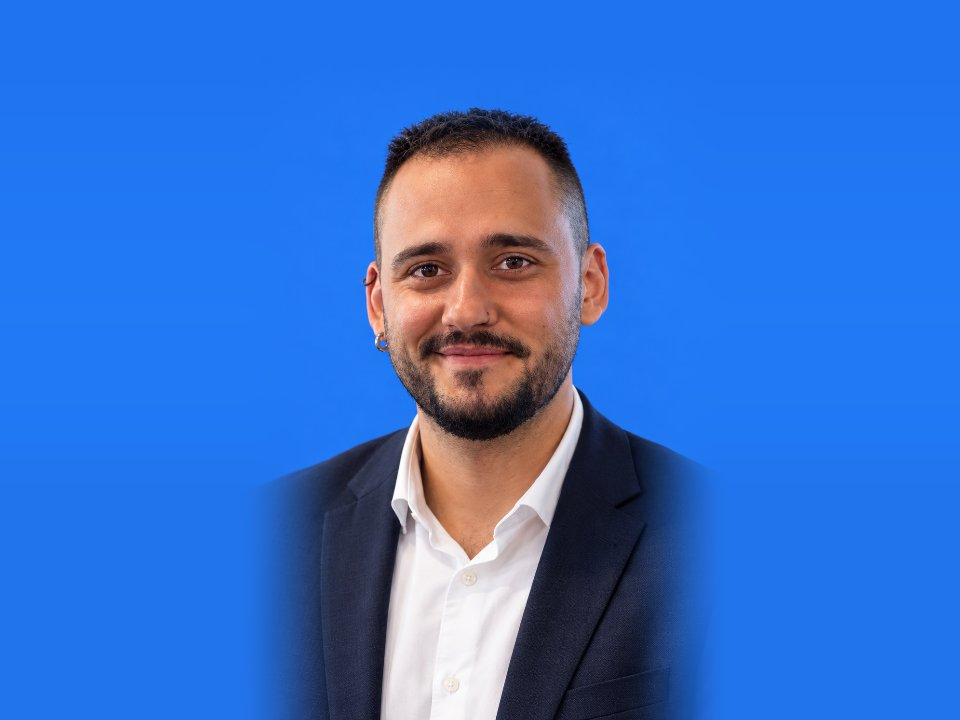
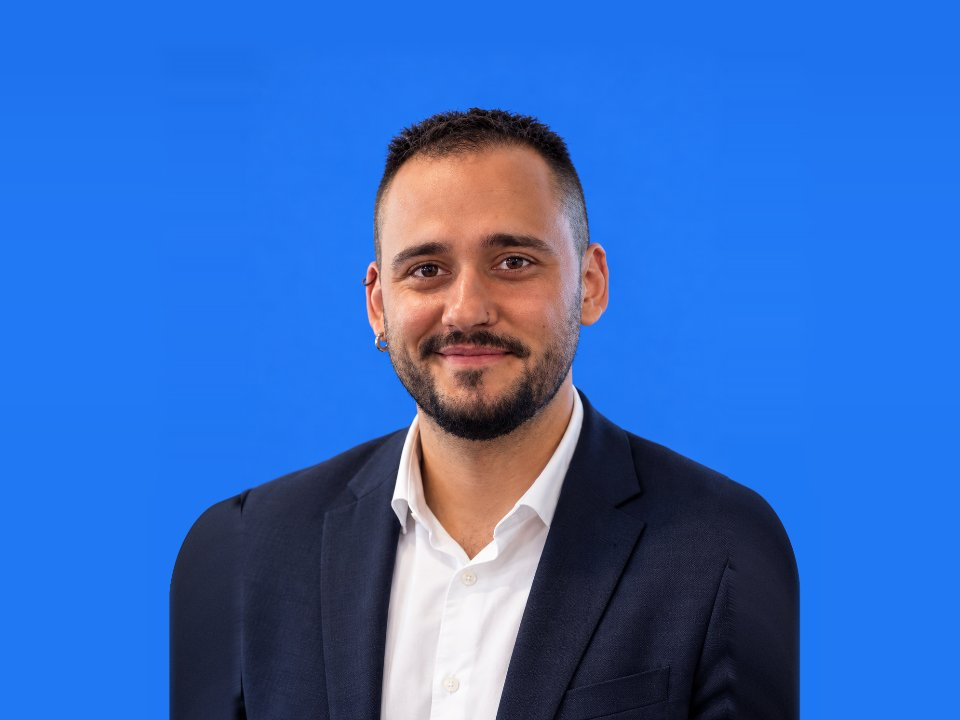
Nosotros: Carlos Salcedo recupera los hombros
Su foto original viene muy cerrada y la chaqueta ya estaba cortada por
los lados; al fundir esos cortes en azul se quedaba sin hombros. Ahora
se prolongan: la línea de los hombros sigue con su misma pendiente, se
redondea hacia la caída del brazo y se rellena con el color medio de la
propia chaqueta a cada altura (con grano de tela y la unión fundida con
la foto), sobre el azul del fondo. La cabeza sigue sin cortarse en
ningún tamaño.

Changed region(s): [[0.6562, 0.6111, 0.8438, 1.0], [0.1562, 0.6417, 0.3438, 1.0], [0.4375, 0.1528, 0.5625, 0.1833]]

diff --git a/index.html b/index.html
@@ -549,7 +549,7 @@
         <li class="member" style="--i:6">
           <button type="button" class="member__card" data-quien="carloss"
                   aria-label="Carlos Salcedo Cea, Programador. Ver la trayectoria completa.">
-            <span class="member__foto" data-foto="assets/equipo/carloss.jpg?v=2">
+            <span class="member__foto" data-foto="assets/equipo/carloss.jpg?v=3">
               <span class="member__ini" aria-hidden="true">CS</span>
             </span>
             <span class="member__body">
